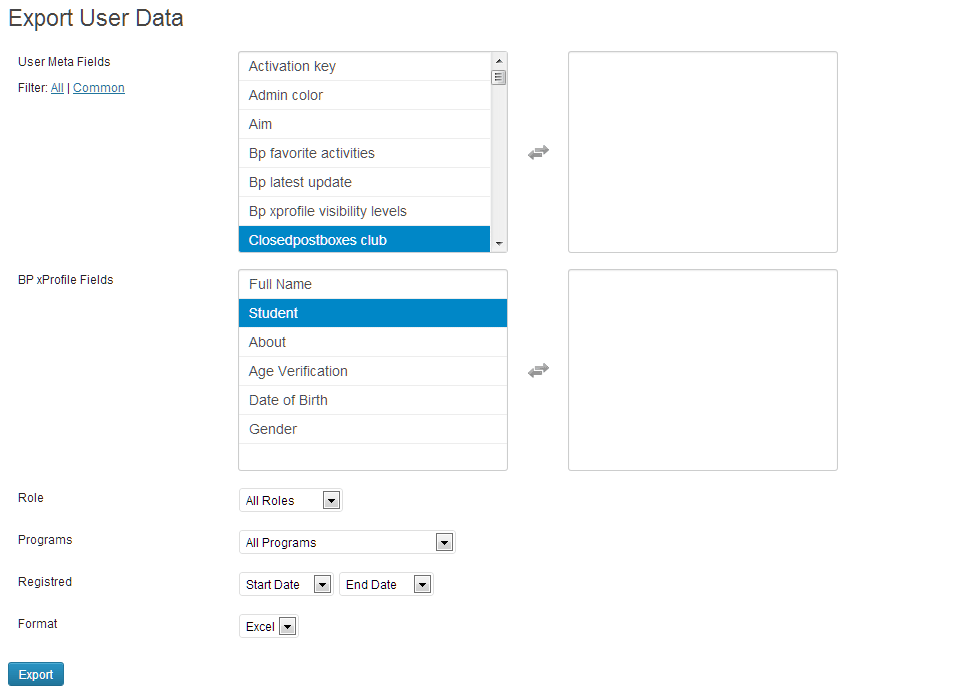
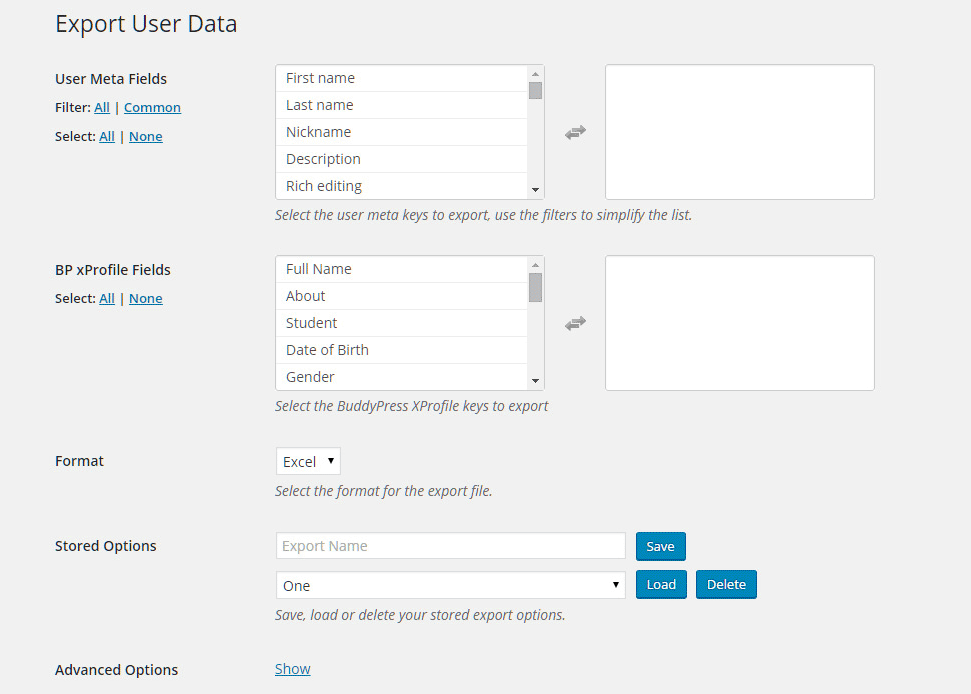
1.2.6

diff --git a/export-user-data.php b/export-user-data.php
@@ -4,7 +4,7 @@
 Plugin Name: Export User Data
 Plugin URI: http://qstudio.us/plugins/
 Description: Export User data, metadata and BuddyPress X-Profile data.
-Version: 1.2.3
+Version: 1.2.5
 Author: Q Studio
 Author URI: http://qstudio.us
 License: GPL2
@@ -23,7 +23,7 @@ if ( ! class_exists( 'Q_Export_User_Data' ) )
 {
     
     // plugin version
-    define( 'Q_EXPORT_USER_DATA_VERSION', '1.2.3' ); // version ##
+    define( 'Q_EXPORT_USER_DATA_VERSION', '1.2.5' ); // version ##
     
     // instatiate class via hook, only if inside admin
     if ( is_admin() ) {
@@ -42,7 +42,7 @@ if ( ! class_exists( 'Q_Export_User_Data' ) )
     class Q_Export_User_Data {
         
 		// debug ##
-		const debug = true;
+		const debug = false;
         
         // Refers to a single instance of this class. ##
         private static $instance = null;
@@ -54,8 +54,9 @@ if ( ! class_exists( 'Q_Export_User_Data' ) )
         private $bp_fields_saved_fields = array();
         private $bp_fields_update_time_saved_fields = array();
         private $role = '';
-        private $roles = '1';
-        private $groups = '1';
+        private $roles = '0';
+		private $user_fields = '1';
+        private $groups = '0';
         private $start_date = '';
         private $end_date = '';
         private $limit_offset = '';
@@ -327,7 +328,7 @@ if ( ! class_exists( 'Q_Export_User_Data' ) )
                   $this->limit_offset = '';
                   $this->limit_total = '';
                   $this->format = '';
-
+				  
             }
           
         }
@@ -1316,22 +1317,6 @@ if ( ! class_exists( 'Q_Export_User_Data' ) )
                     </td>
                 </tr>
 				
-				<tr valign="top" class="toggleable">
-                    <th scope="row"><label for="user_fields"><?php _e( 'Standard User Fields', 'export-user-data' ); ?></label></th>
-                    <td>
-                        <input id='user_fields' type='checkbox' name='user_fields' value='1' <?php checked( isset ( $this->user_fields ) ? intval ( $this->user_fields ) : '', 1 ); ?> />
-                        <p class="description"><?php 
-                            printf( 
-                                __( 'Include Standard user profile fields, such as user_login. <a href="%s" target="_blank">%s</a>', 'export-user-data' )
-                                ,   esc_html('https://codex.wordpress.org/Database_Description#Table:_wp_users')
-                                ,   'Codex'
-                            ); 
-							
-							echo 'value: '.$this->user_fields .' / Post value: '.$_POST['user_fields'];
-                        ?></p>
-                    </td>
-                </tr>
-				
                 <tr valign="top" class="toggleable">
                     <th scope="row"><label for="groups"><?php _e( 'BP User Groups', 'export-user-data' ); ?></label></th>
                     <td>
@@ -1350,6 +1335,29 @@ if ( ! class_exists( 'Q_Export_User_Data' ) )
             } // BP installed and active ##
 
 ?>
+				<tr valign="top" class="toggleable">
+                    <th scope="row"><label for="user_fields"><?php _e( 'Standard User Fields', 'export-user-data' ); ?></label></th>
+                    <td>
+                        <input id='user_fields' type='checkbox' name='user_fields' value='1' <?php checked( isset ( $this->user_fields ) ? intval ( $this->user_fields ) : '', 1 ); ?> />
+                        <p class="description"><?php 
+						
+							if ( self::debug ) {
+								
+								self::log( 'user_fields: '.$this->user_fields );
+								#echo 'user_fields: '. $this->user_fields;
+								
+							}
+						
+                            printf( 
+                                __( 'Include Standard user profile fields, such as user_login. <a href="%s" target="_blank">%s</a>', 'export-user-data' )
+                                ,   esc_html('https://codex.wordpress.org/Database_Description#Table:_wp_users')
+                                ,   'Codex'
+                            ); 
+							
+                        ?></p>
+                    </td>
+                </tr>
+				
                 <tr valign="top" class="toggleable">
                     <th scope="row"><label for="q_eud_users_role"><?php _e( 'Role', 'export-user-data' ); ?></label></th>
                     <td>
@@ -1770,7 +1778,7 @@ if ( ! class_exists( 'Q_Export_User_Data' ) )
         public static function get_user_fields() 
         {
             
-			// skip addition fo standard wp_users fields ##
+			// standard wp_users fields ##
 			if ( isset( $_POST['user_fields'] ) && '1' == $_POST['user_fields'] ) {
 				
 				// debug ##

diff --git a/readme.md b/readme.md
@@ -2,8 +2,8 @@
 **Contributors:** qlstudio  
 **Tags:** user, users, xprofile, usermeta csv, excel, batch, export, save, download  
 **Requires at least:** 3.2  
-**Tested up to:** 4.3.1  
-**Stable tag:** 1.2.3  
+**Tested up to:** 4.4.1
+**Stable tag:** 1.2.6
 **License:** GPLv2  
 
 Export users data, metadata and buddypress xprofile data to a csv or Excel file
@@ -22,7 +22,7 @@ Includes an option to export the users by role, registration date range, usermet
 * Exports users by date range
 * Export user BuddyPress xProfile data
 
-For feature request and bug reports, [please use the WP Support Website](http://www.wp-support.co/view/categories/export-user-data).
+For feature request and bug reports, [please use the Q Support Website](https://qstudio.us/support/categories/export-user-data).
 
 Please do not use the Wordpress.org forum to report bugs, as we no longer monitor or respond to questions there.
 
@@ -58,6 +58,9 @@ Click on the 'Export User Data' link in the 'Users' menu, choose the role and th
 ![ScreenShot](http://s.w.org/plugins/export-user-data/screenshot-1.png?r=859689)
 
 ## Changelog ##
+
+*** 1.2.6 ***
+* Update: WP 4.4.1
 
 ### 1.2.3 ###
 * Fix: to remove minor security loop hole
